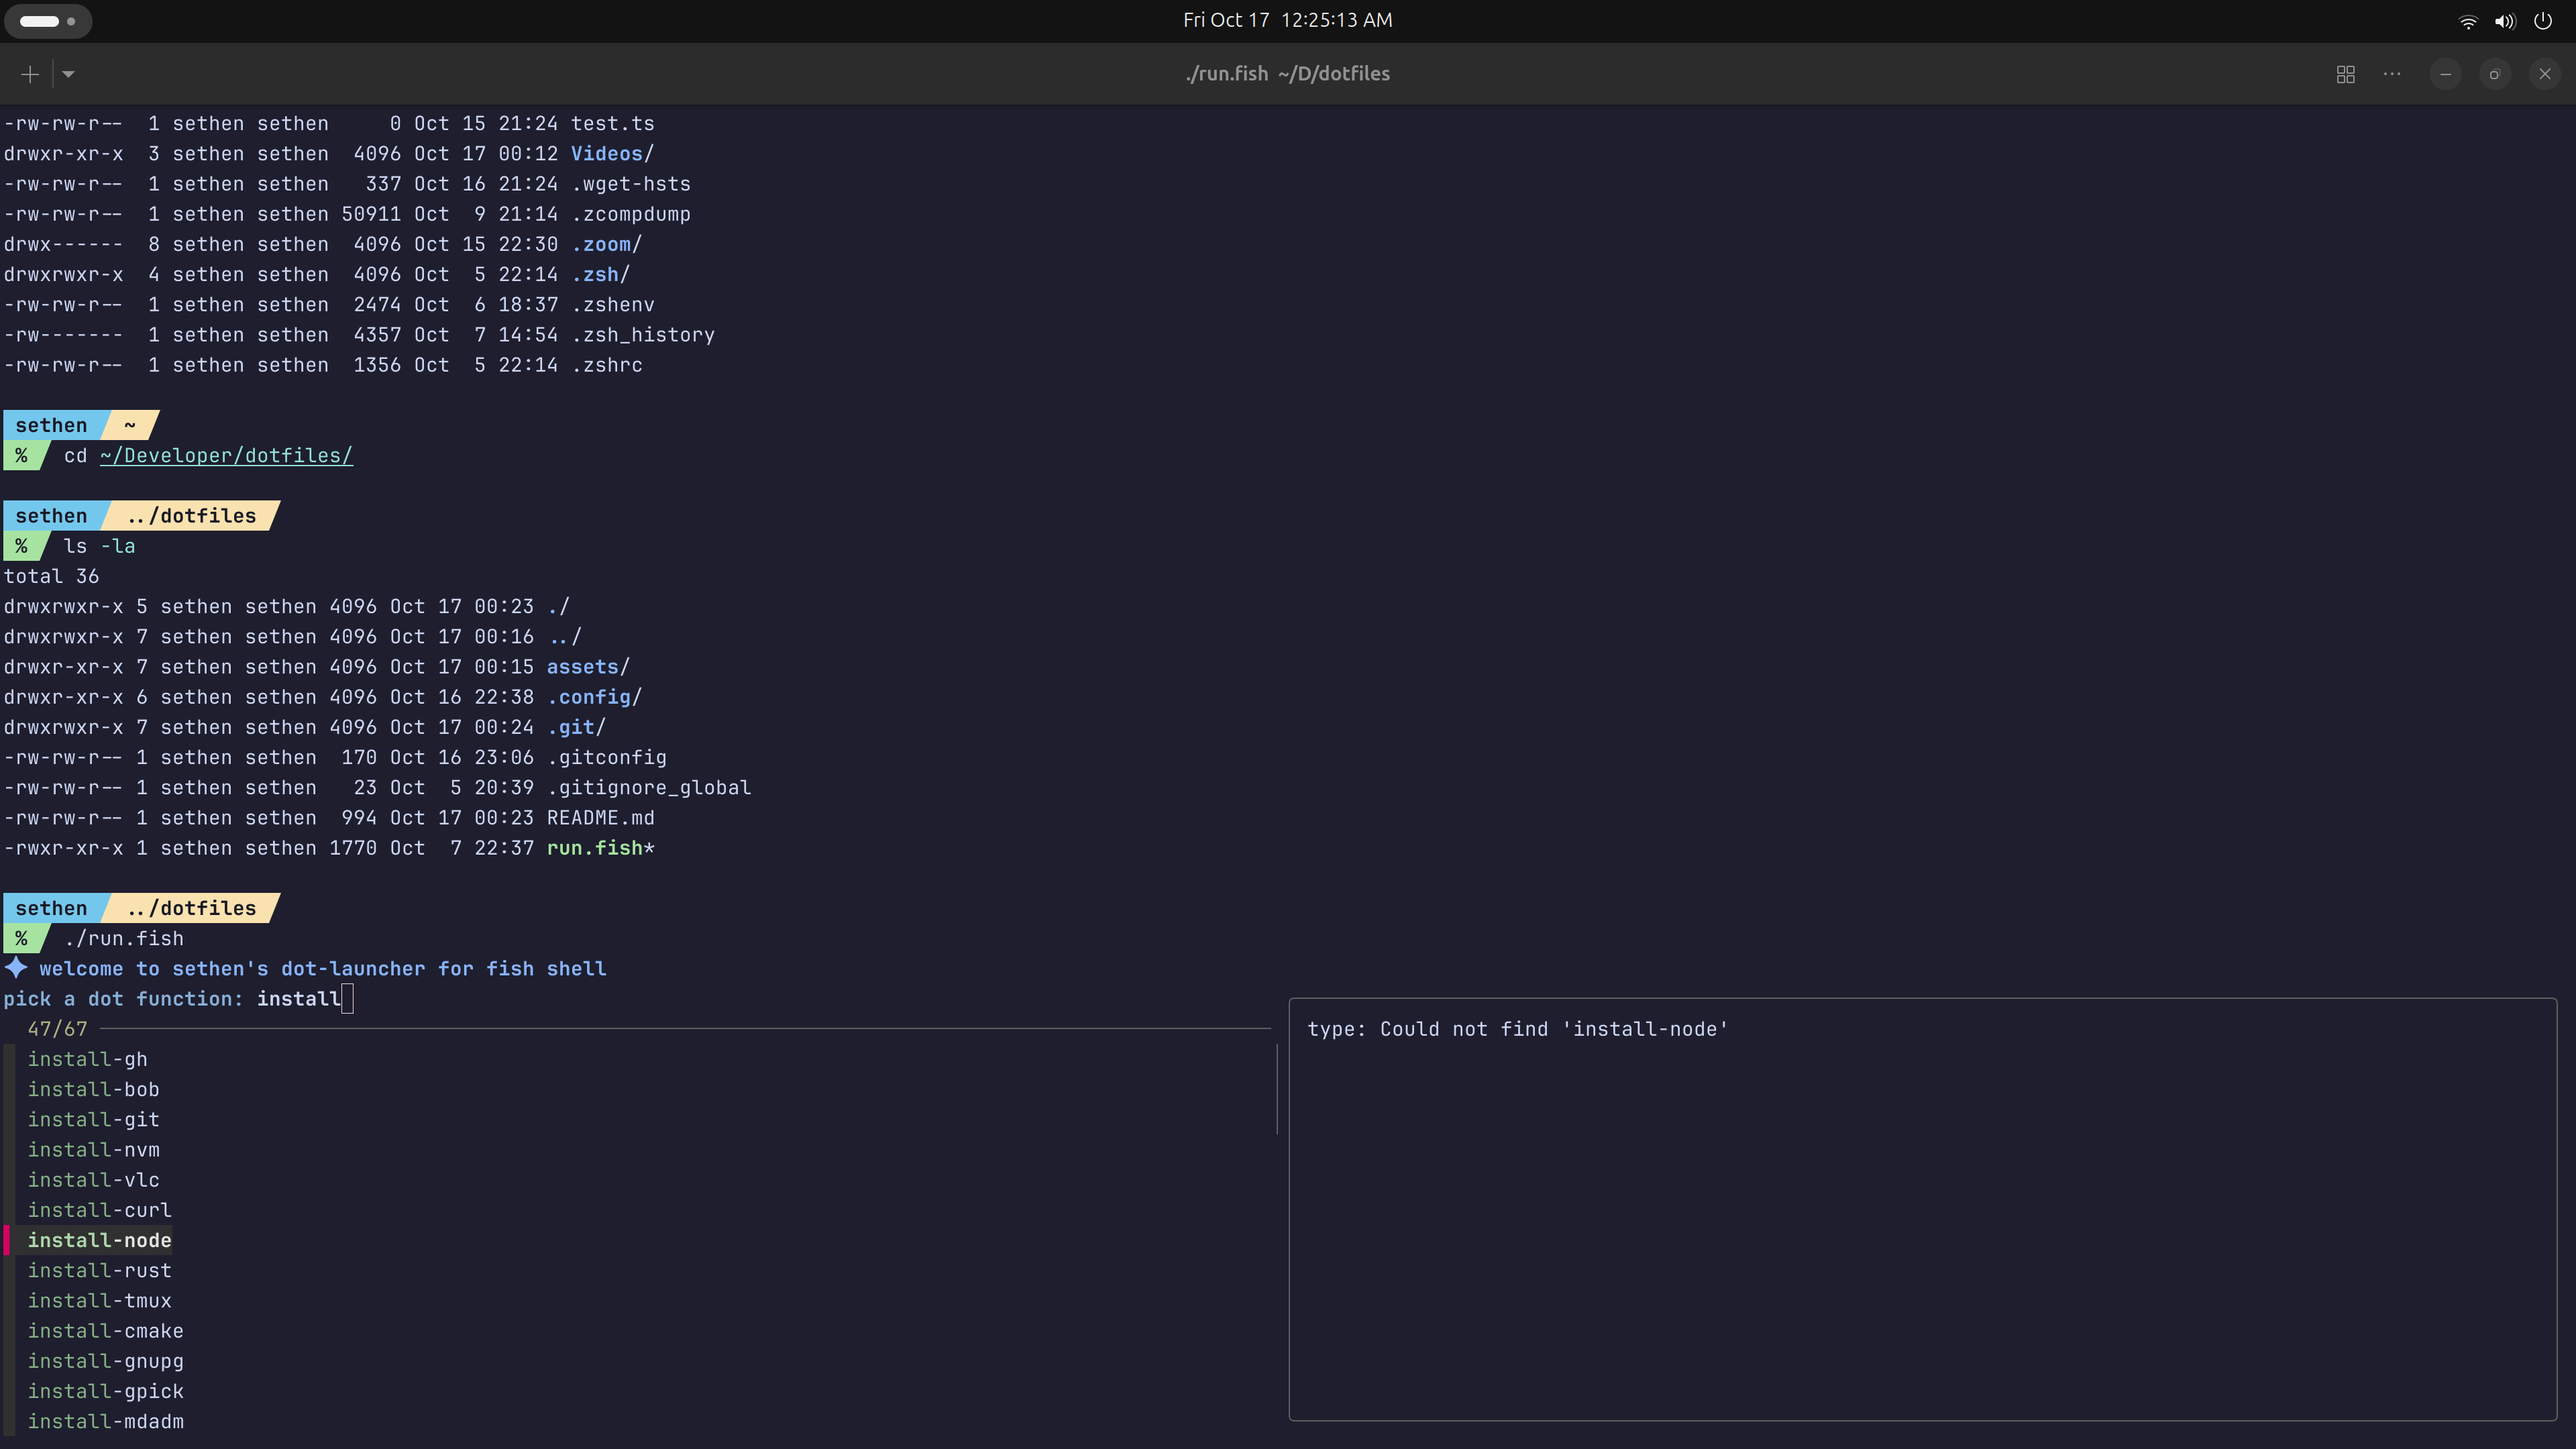
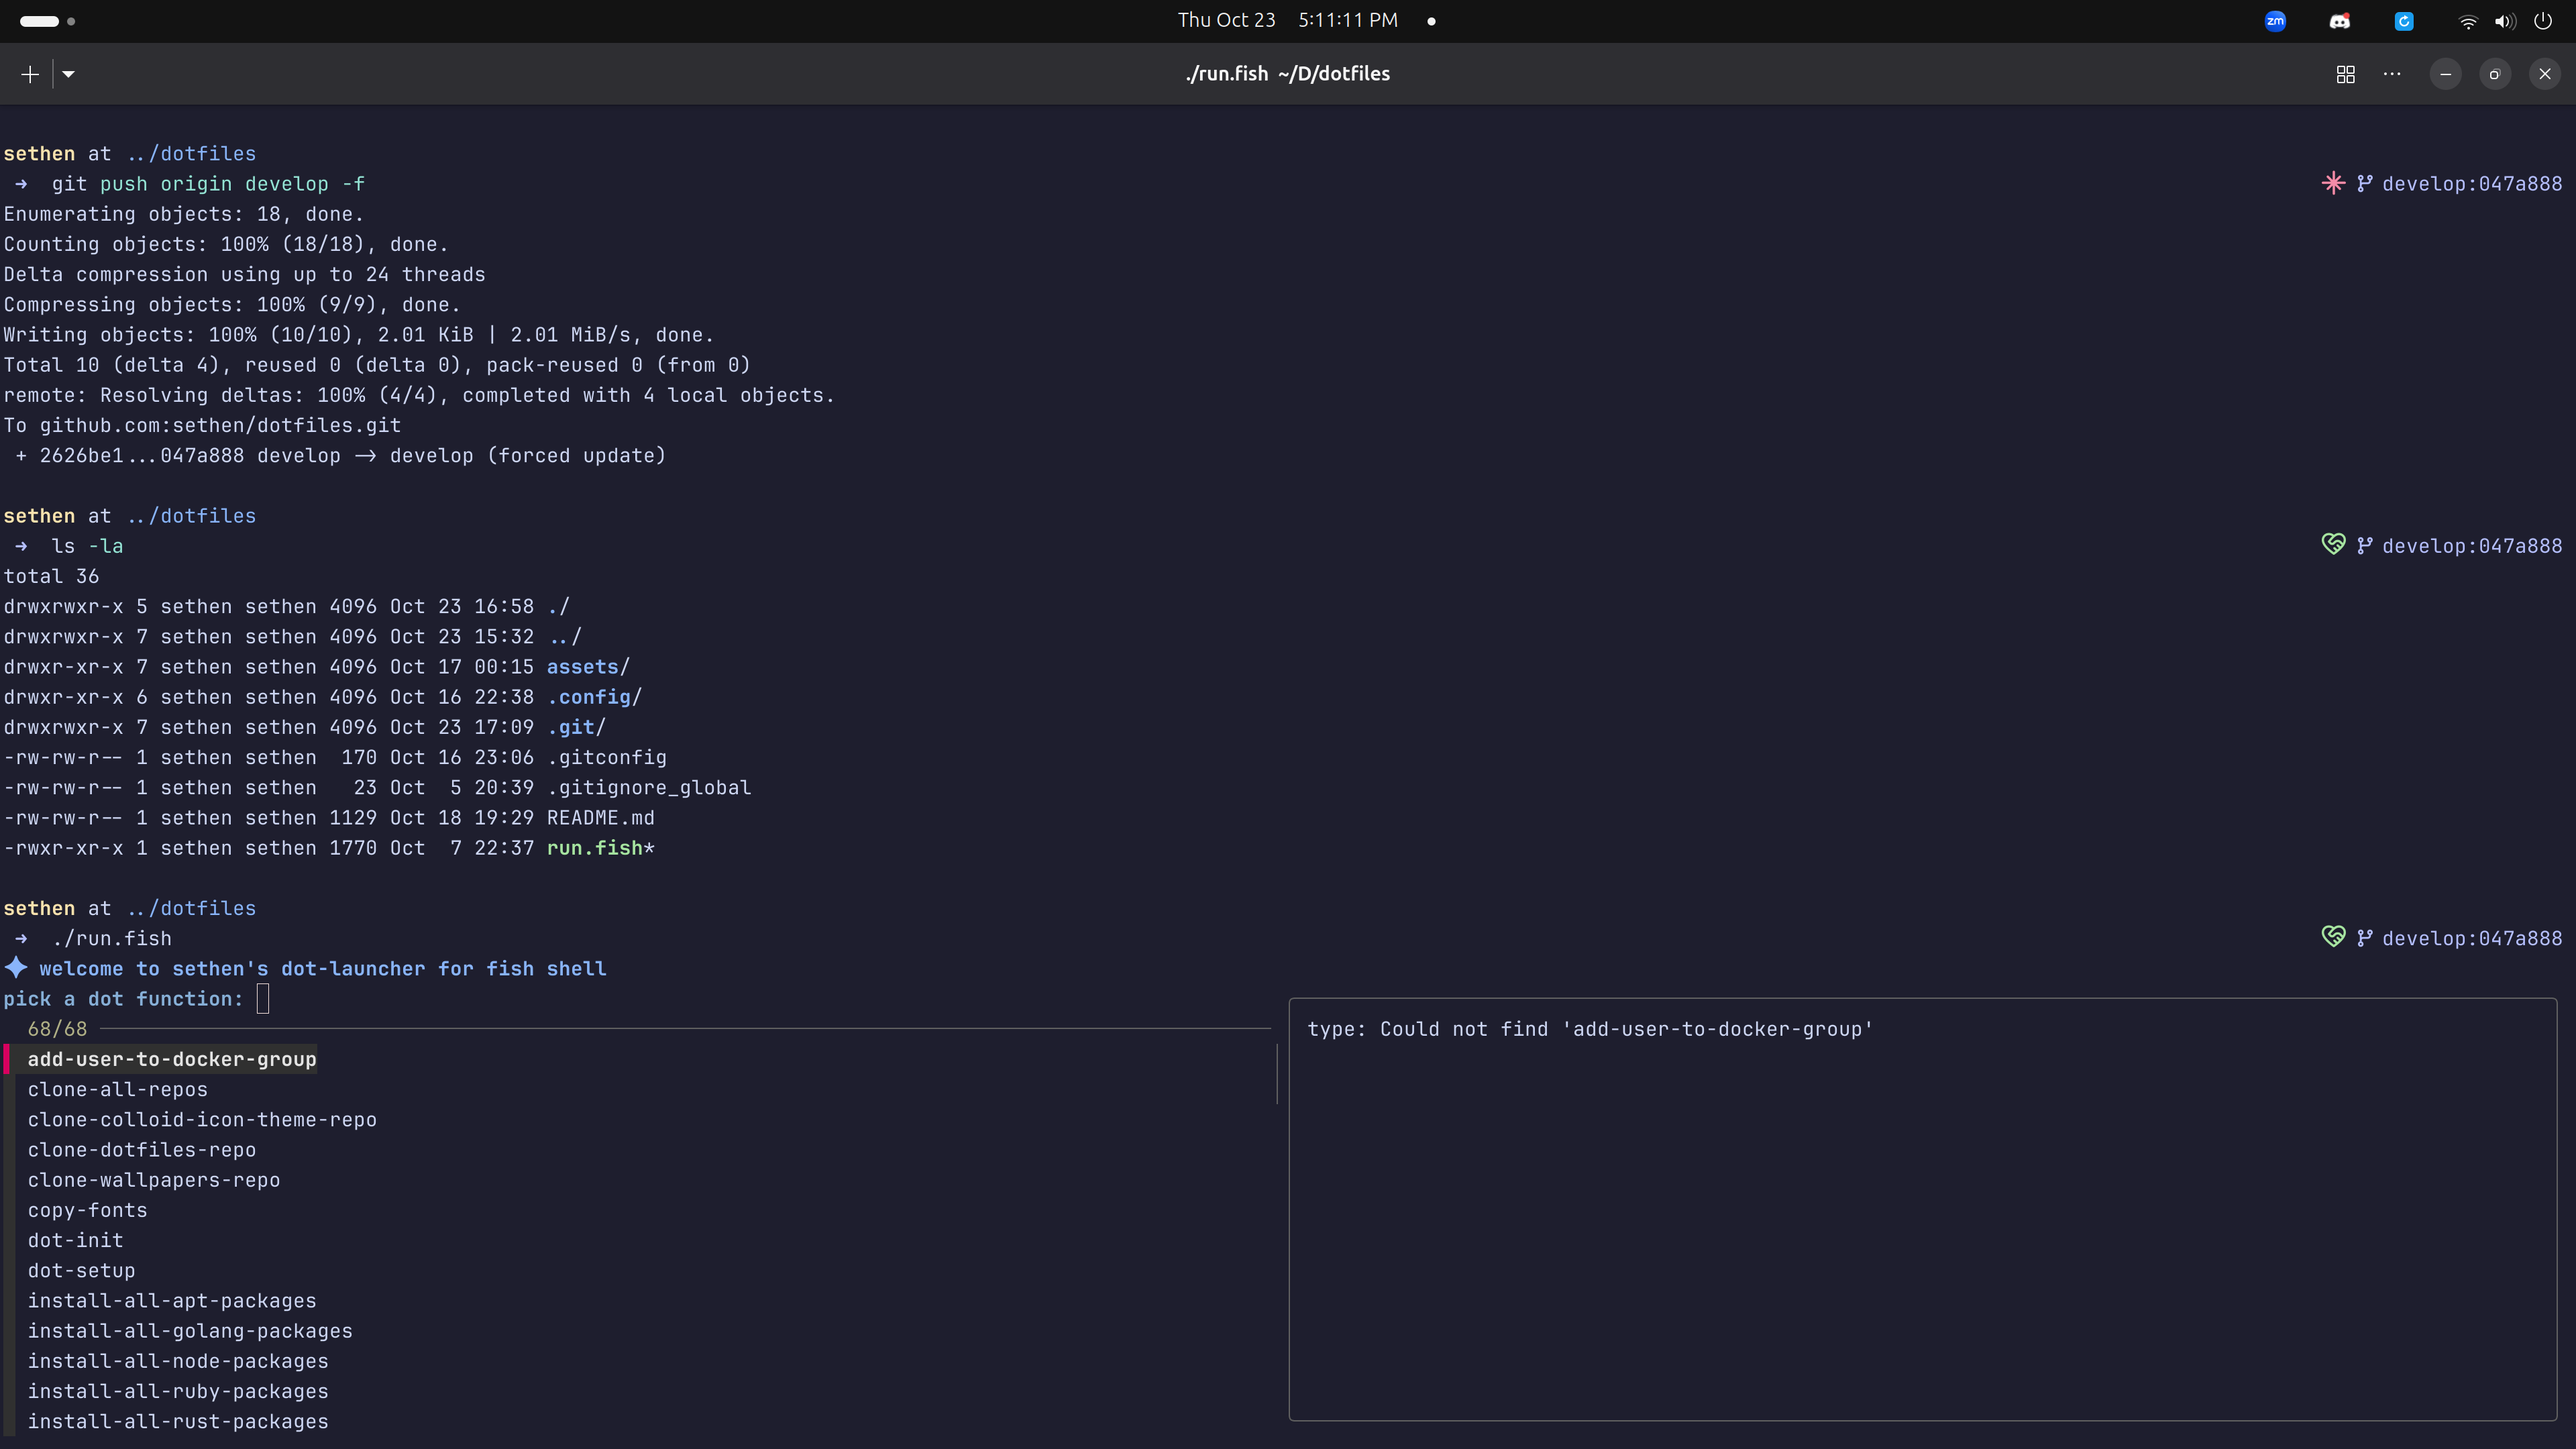
Teaked README

diff --git a/README.md b/README.md
@@ -4,7 +4,7 @@ These are my dotfiles for setting up my environment from nothing. Take and use a
 
 These dotfiles are a bit different in that they use something I call a `dot-launcher`.  This is a fish script that runs other fish scripts.  The main script is `run.fish`.  Each script is called a `dot-function` and they are located in the `.config/fish/functions/dot` directory.  Each dot-function does one thing, like install neovim or set up git.  You can run them every doc-function individually or run them all with the `run-all` dot-function.
 
-## Ghostty with Starlight & Fish
+## Ghostty with Starship & Fish
 ![image](assets/images/terminal.png)
 
 ## Dot Launcher
